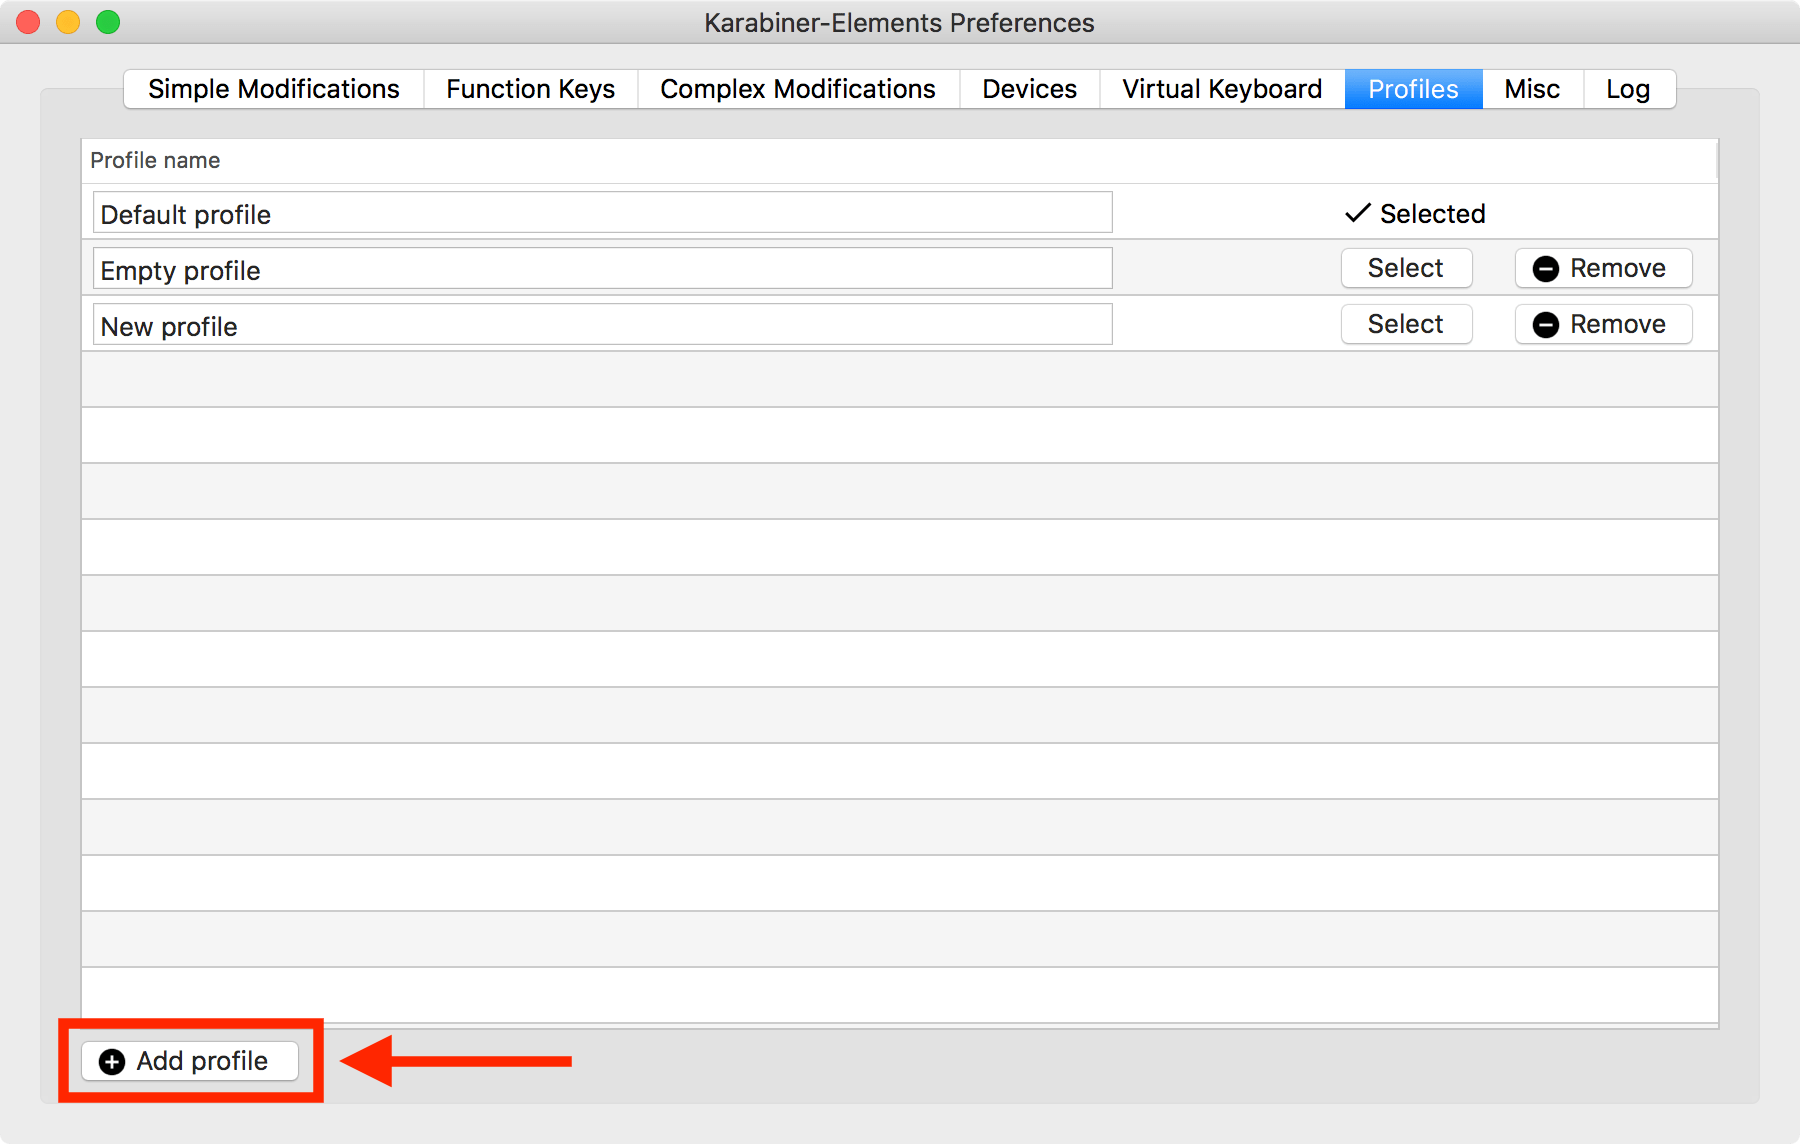
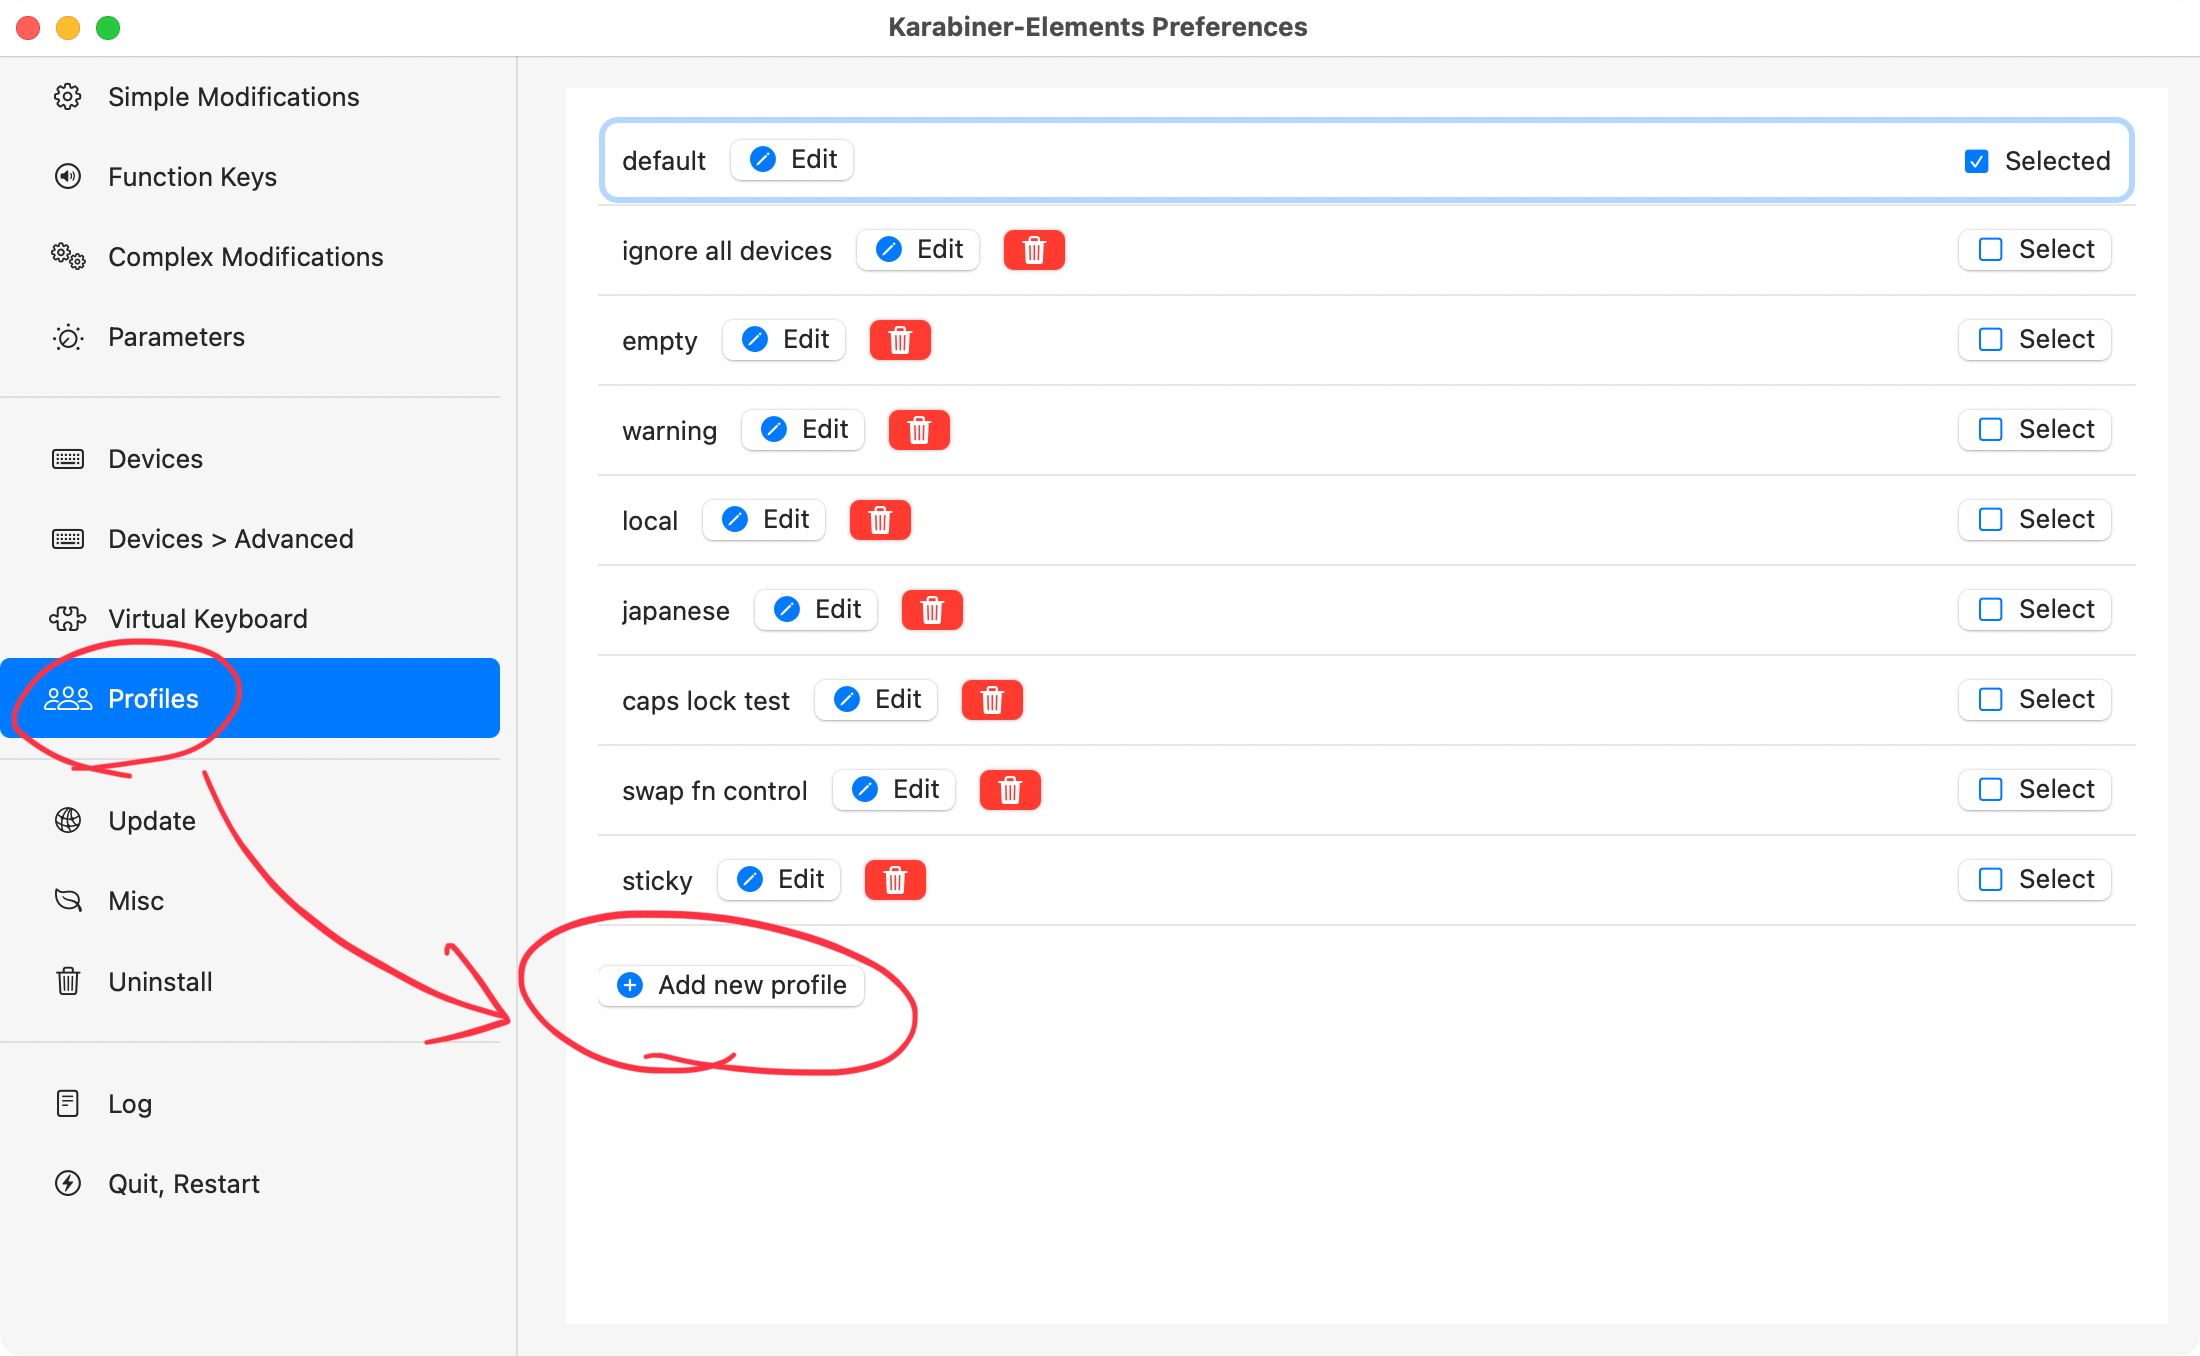
Update profiles

diff --git a/sites/karabiner-elements/content/en/docs/manual/operation/profiles/index.md b/sites/karabiner-elements/content/en/docs/manual/operation/profiles/index.md
@@ -10,6 +10,6 @@ You can switch profiles from menu bar. <br />
 ## Manage profiles
 
 You can manage profiles from Profiles tab.<br />
-Press **Add profile** button to add new profile.
+Press **Add new profile** button to add new profile.
 
 {{< local-image src="images/karabiner-elements-profiles@2x.png" >}}
